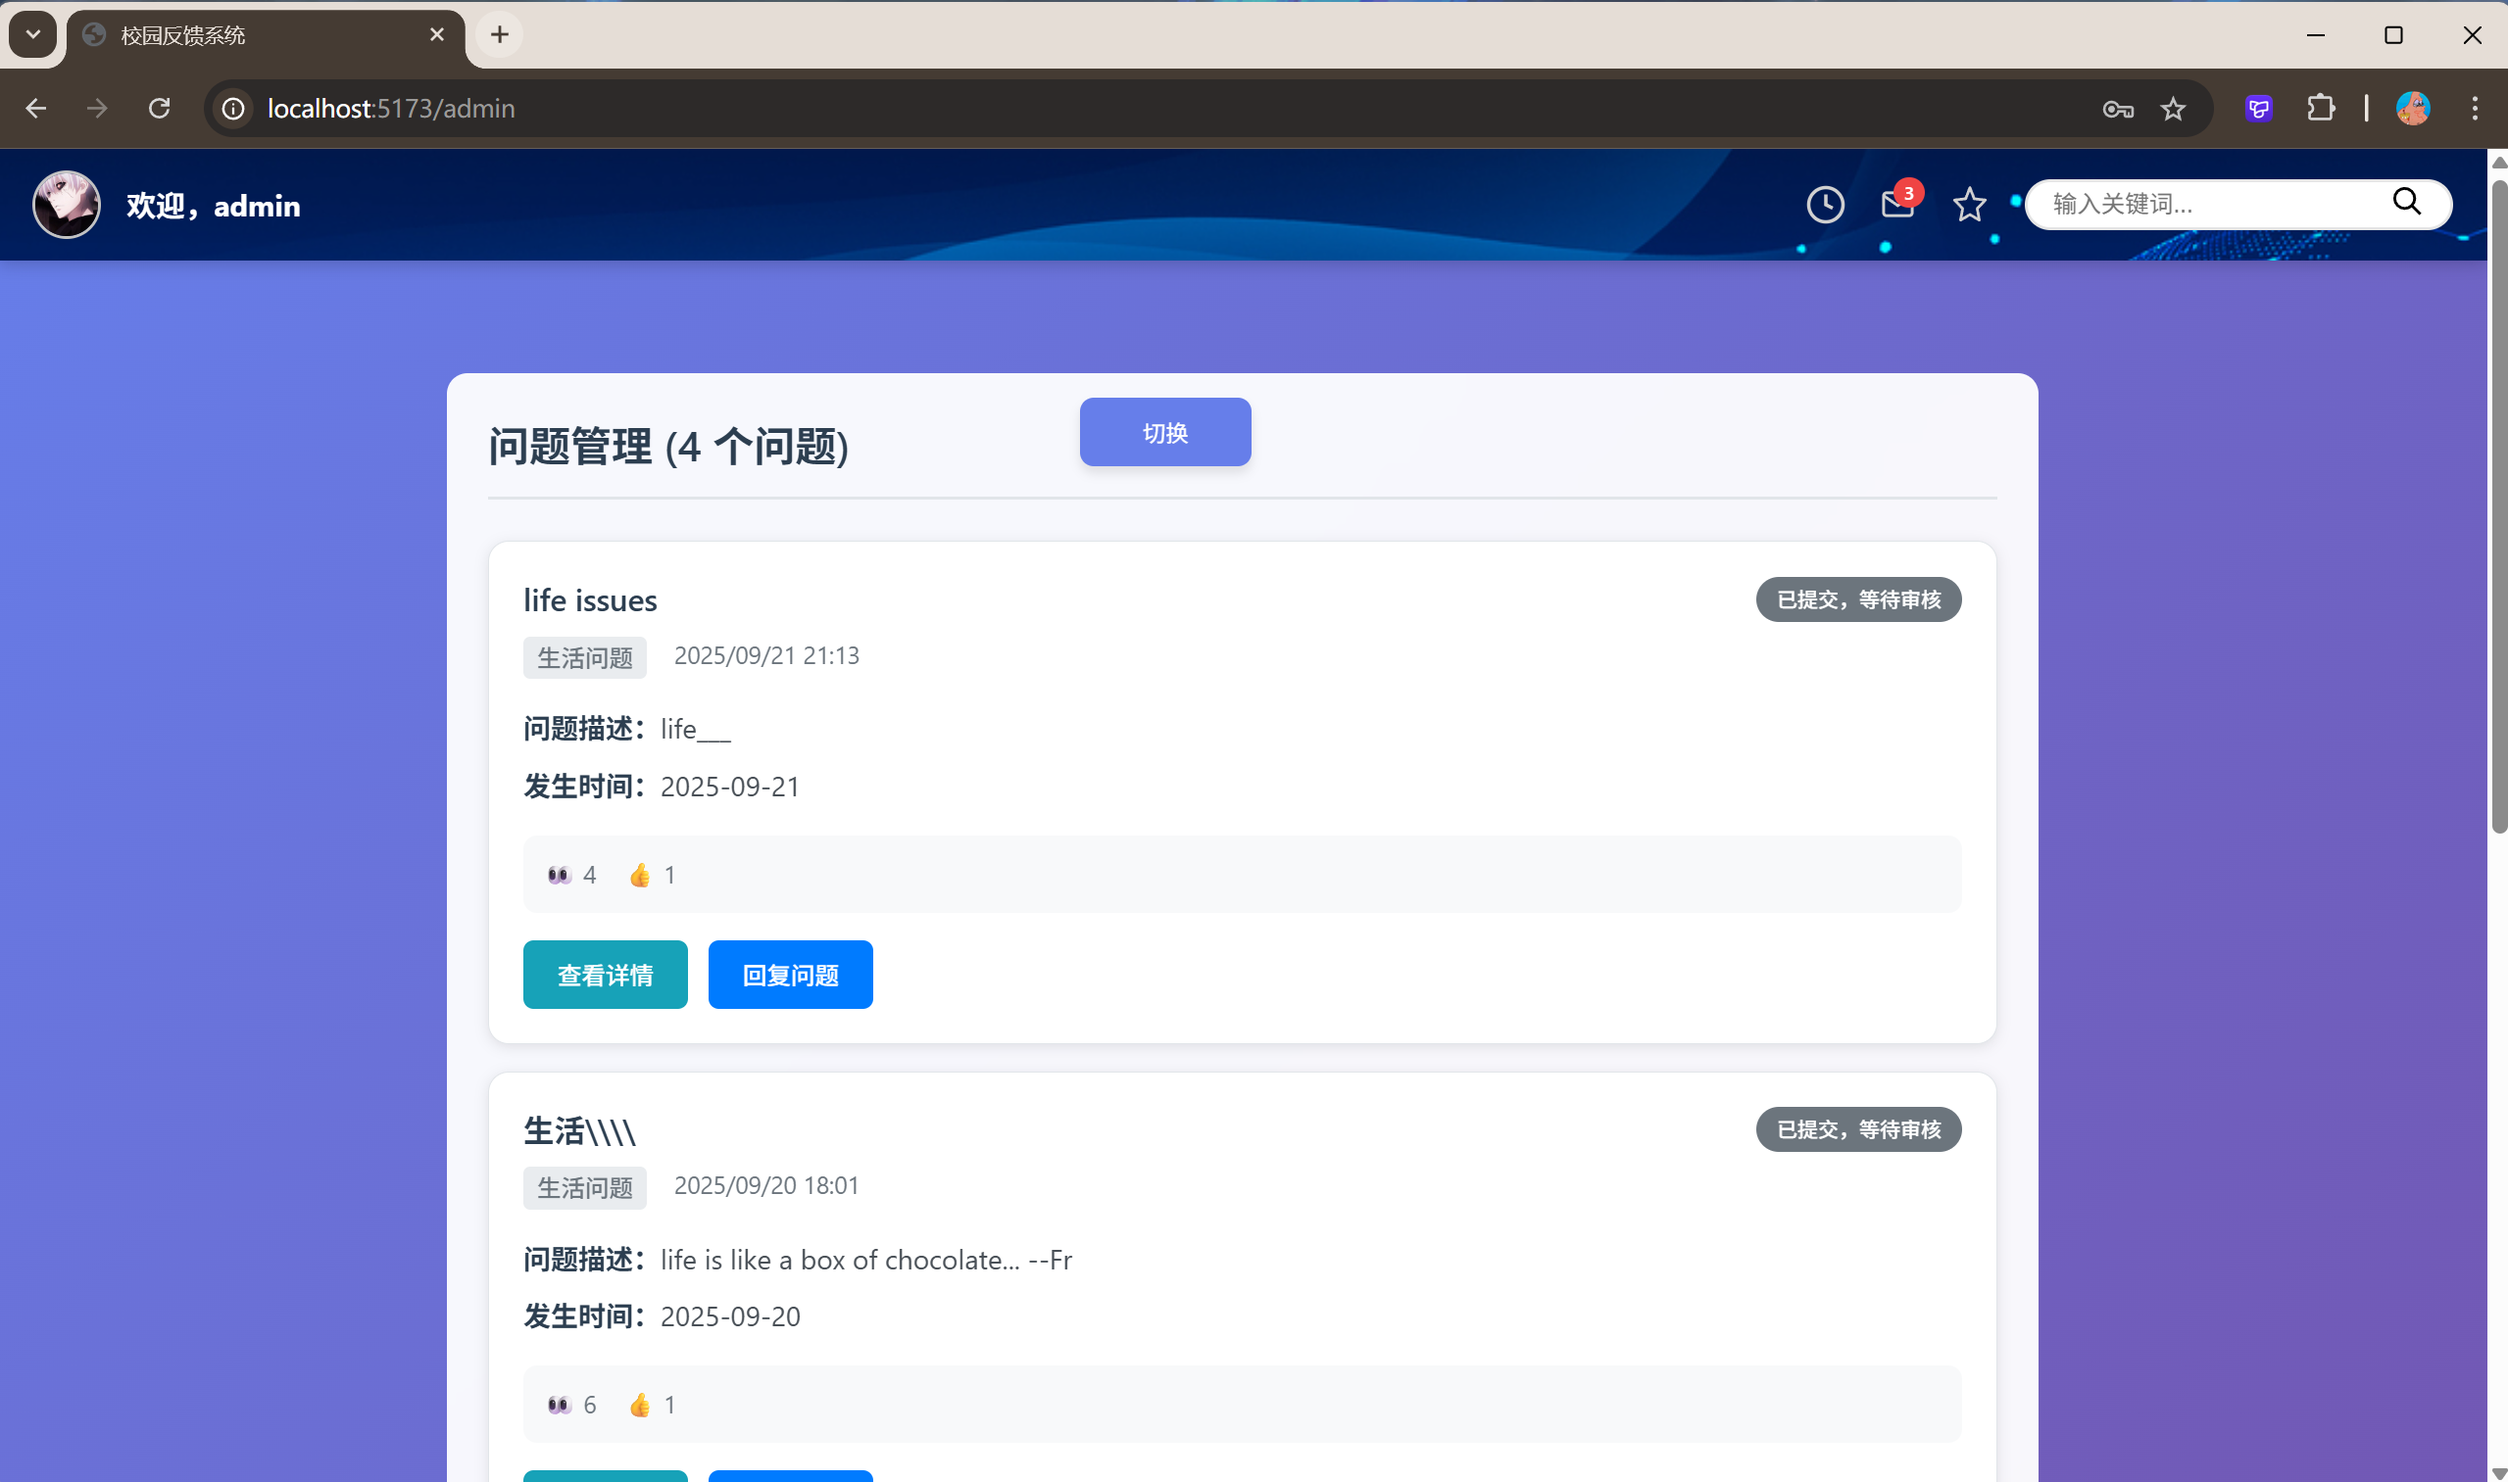
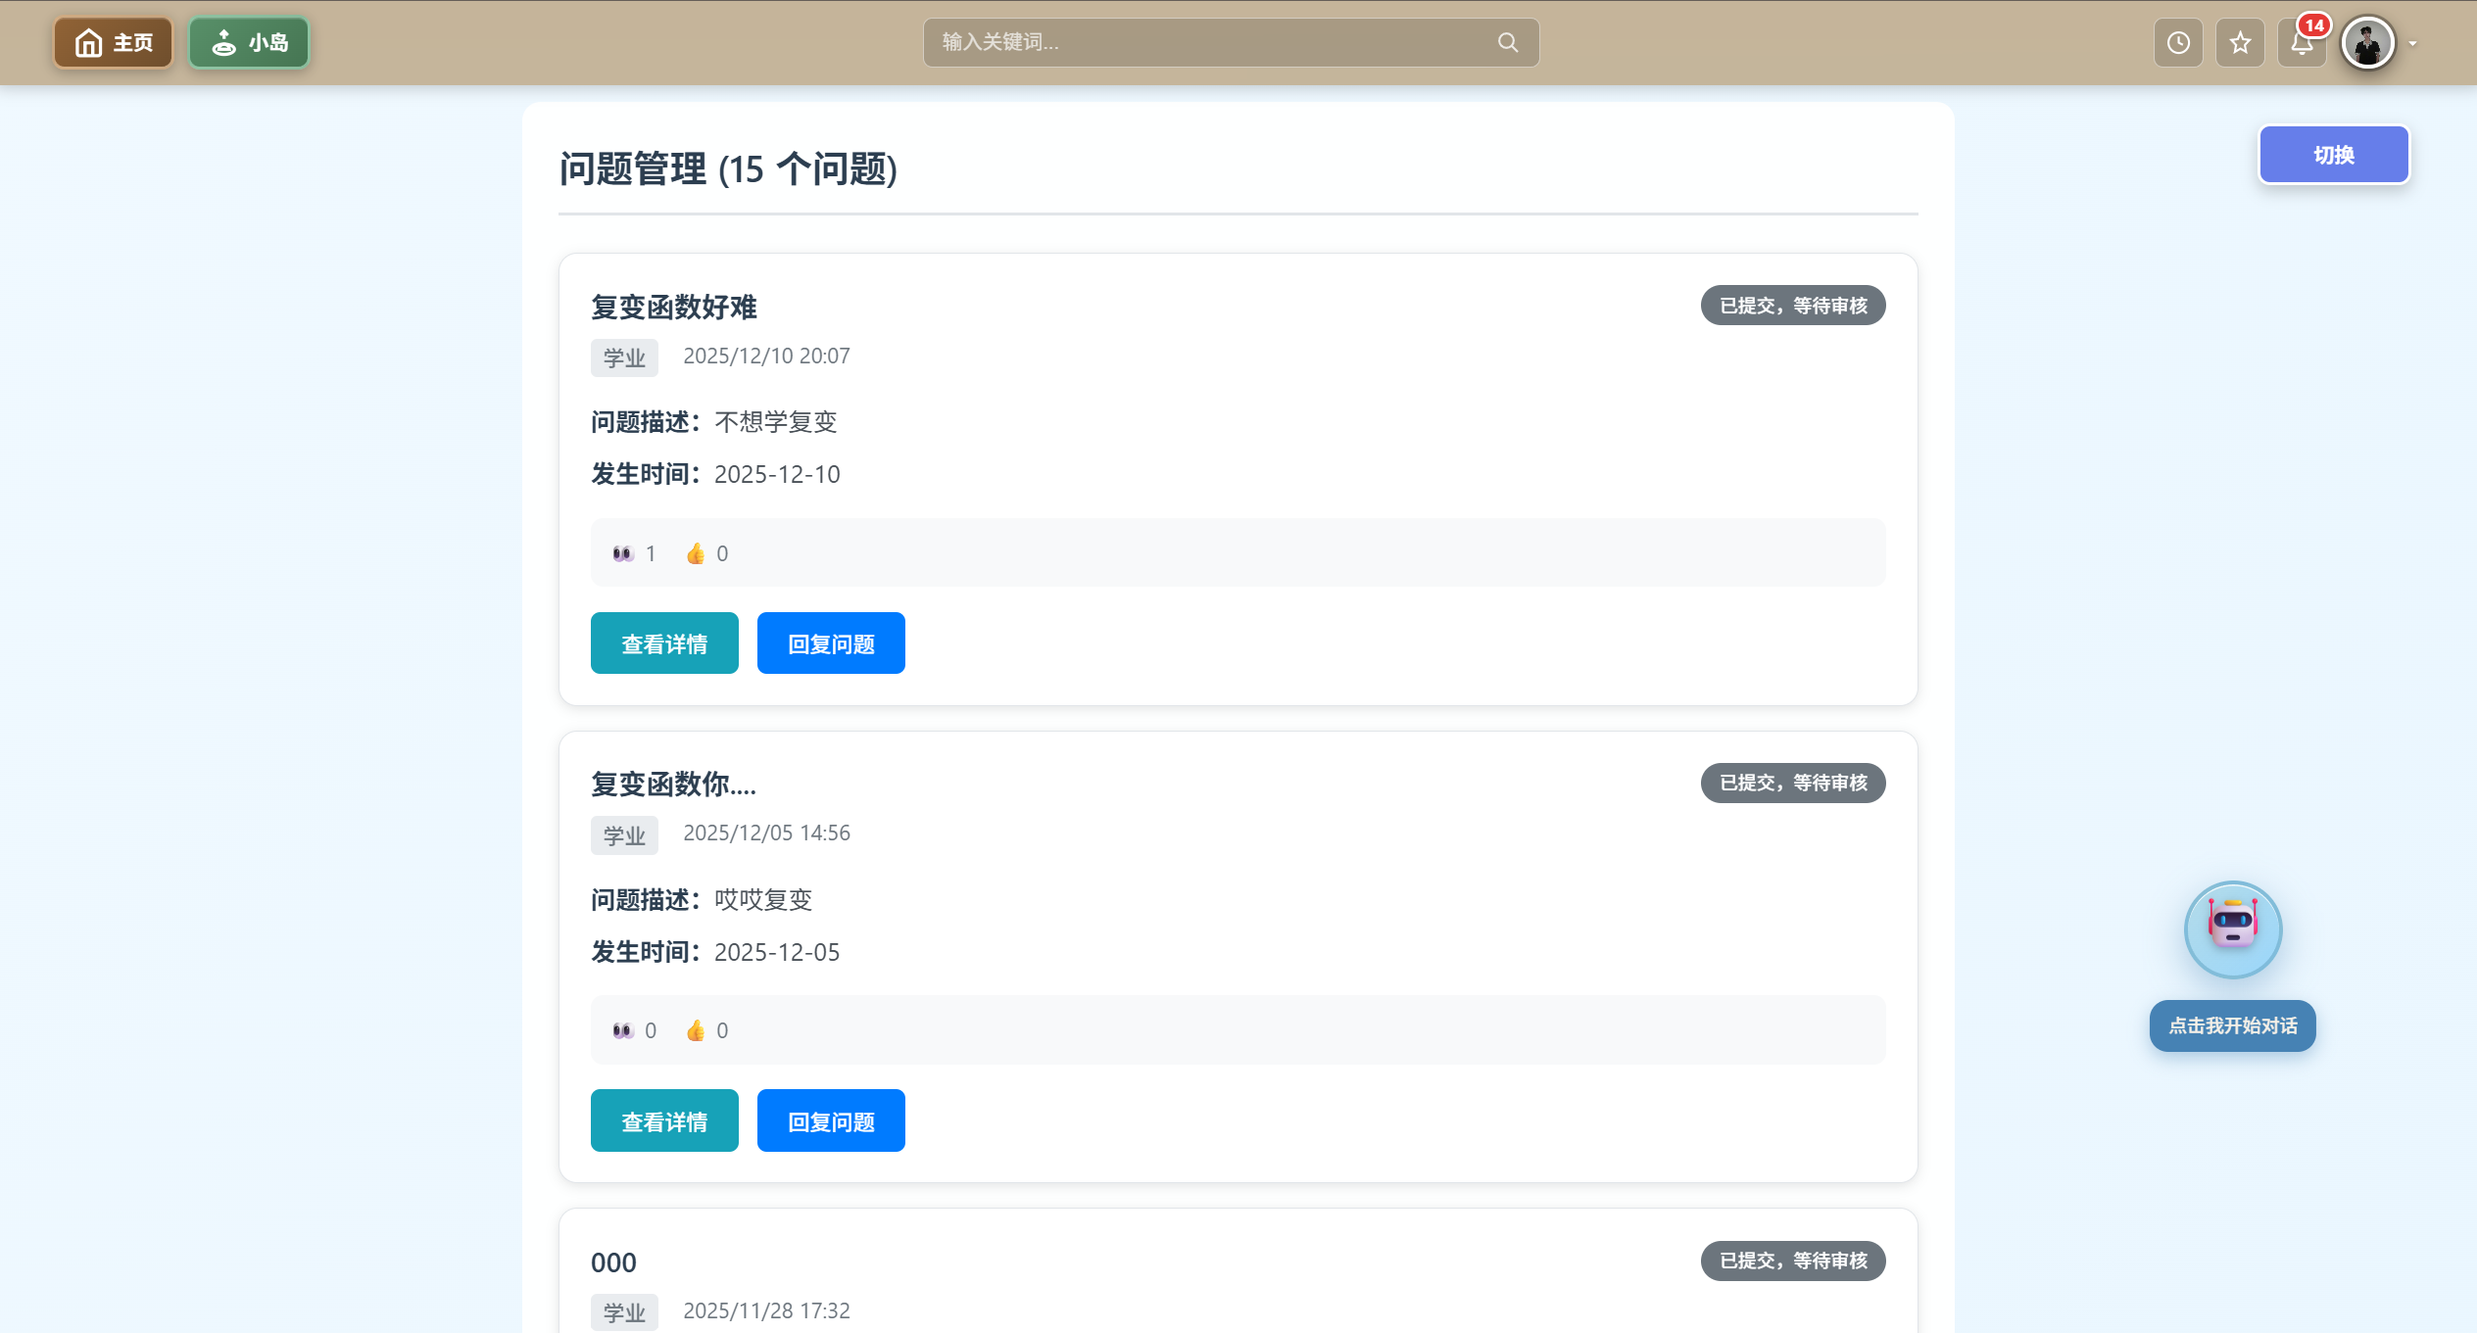
更新readme

diff --git a/README.md b/README.md
@@ -4,13 +4,19 @@
 
 **Our slogan:** "`Unite, Share, Trust, Connect` —— `Dovelink` 让心声相聚"
 
-## Technology Stack and Features
+## Technology Stack
 
 - 🐍 Django for the Python backend、🗄 sqlite3 for the Python SQL database
 
--  ⚛ React + ⚡ Vite for the frontend
+- ⚛ React + ⚡ Vite for the frontend
 
 - 🔐 JWT (JSON Web Token) authentication.
+
+- 🤖 ChatGPT API integration for enhanced user interaction.
+
+## Project Features
+
+We built this project using a **dual-system** approach, featuring both a concise issue feedback interface and an animated island-style page, providing users with rich exploration experiences.
 
 ### Register Page
 
@@ -20,25 +26,43 @@
 
 ![LoginPage](./img/login.jpg)
 
-### Home Page
+### Default Mode
 
-![Home](./img/home.jpg)
+---
 
-### Topic-tree
+#### StudentDashboard
 
-![Topic-tree](./img/topic-tree.jpg)
+![Dashboard](./img/dashboard.png)
 
-### StudentDashboard
+#### IssueDetail
 
-![Dashboard](./img/dashboard.jpg)
+![IssueDetail](./img/issueDetail.png)
 
-### IssueDetail
+#### IssueSubmit
 
-![IssueDetail](./img/issueDetail.jpg)
+![IssueSubmit](./img/issueSubmit.png)
 
-### IssueSubmit
+### Island Mode
 
-![IssueSubmit](./img/issueSubmit.jpg)
+---
+
+#### Home Page
+
+![Home](./img/home.png)
+
+#### Topic-tree
+
+![Topic-tree](./img/topic-tree.png)
+
+#### IssueDetail
+
+![IssueDetail](./img/issueDetail-island.png)
+
+#### IssueSubmit
+
+![IssueSubmit](./img/issueSubmit.png)
+
+> Note: The two modes share the same IssueSubmit page.
 
 ### AdminDashboard
 
@@ -55,11 +79,3 @@ Frontend docs: [frontend/README.md](https://github.com/KevinJustin-love/CampusFe
 ## Backend Development
 
 Backend docs: [backend/README.md](https://github.com/KevinJustin-love/CampusFeedbackSystem/blob/main/backend/README.md)
-
-## Cooperation Guidelines
-
-Plz strictly obey the following content for our collaboration.
-
-https://www.xiaohongshu.com/discovery/item/685c6bde0000000017034db9?source=webshare&xhsshare=pc_web&xsec_token=AB5dxMlZK-w-R0bJZu0Mzmi1h2O4BMq83E40MoNGwEGXo=&xsec_source=pc_share。
-
-⚠ When the teammate makes a new `feature`, it is supposed to merge the code locally through `develop` branch, and fix the consequent code conflicts.
